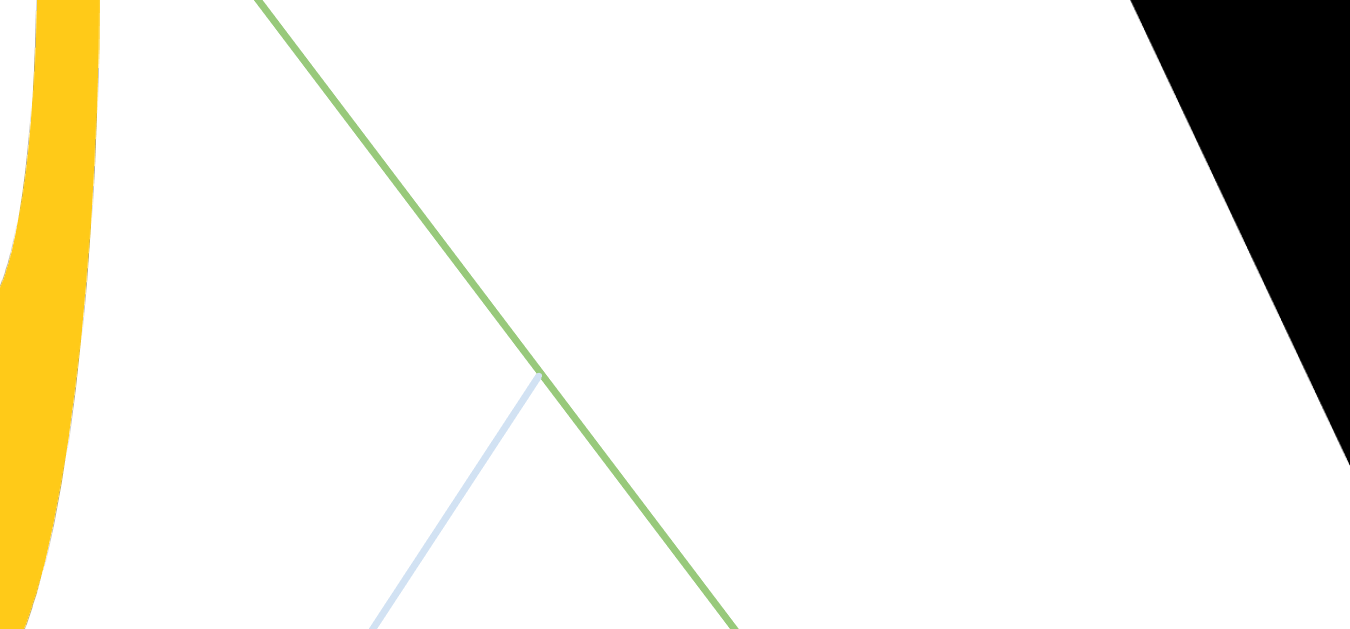
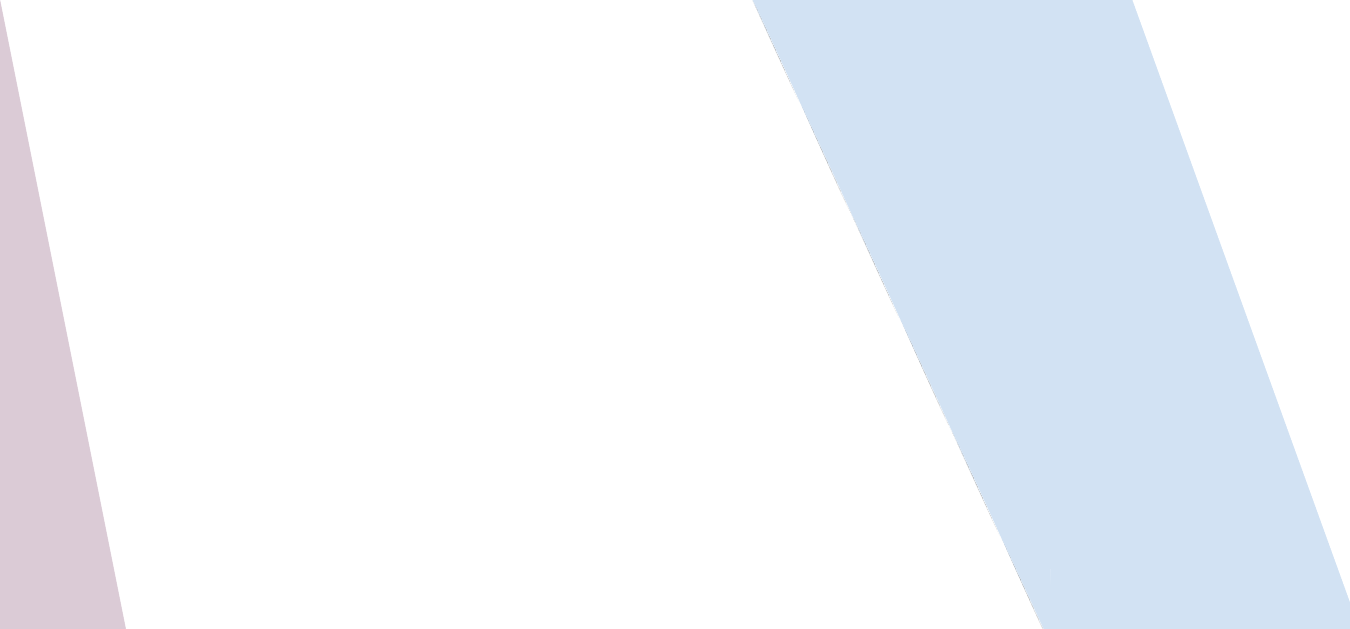
backgrounds fixed!

diff --git a/lawyers.htm b/lawyers.htm
@@ -32,12 +32,13 @@ p.ex1 {
 body {
   background-image: url("back.png");
   width: 100%;
-  height: 100%;
-  background-position: center;
+  height: 85%;
+  background-position: absolute;
   background-size: cover;
-  /* position: fill; */
+  position: fill;
     background-repeat: no-repeat;
-    margin-bottom: 0;
+    bottom: 0;
+    padding-bottom: 0;
 }
 </style>
 
